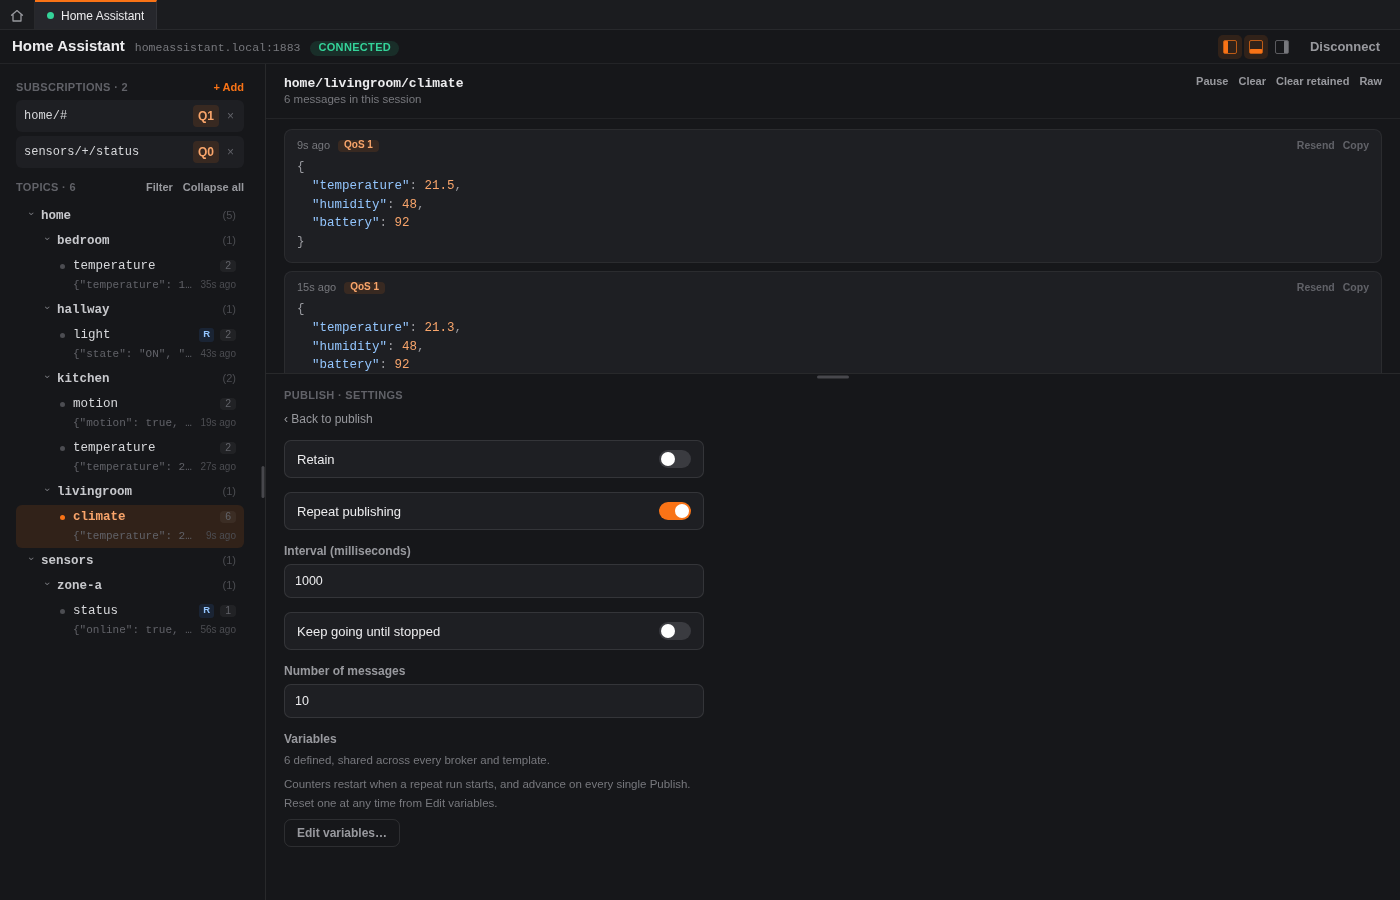
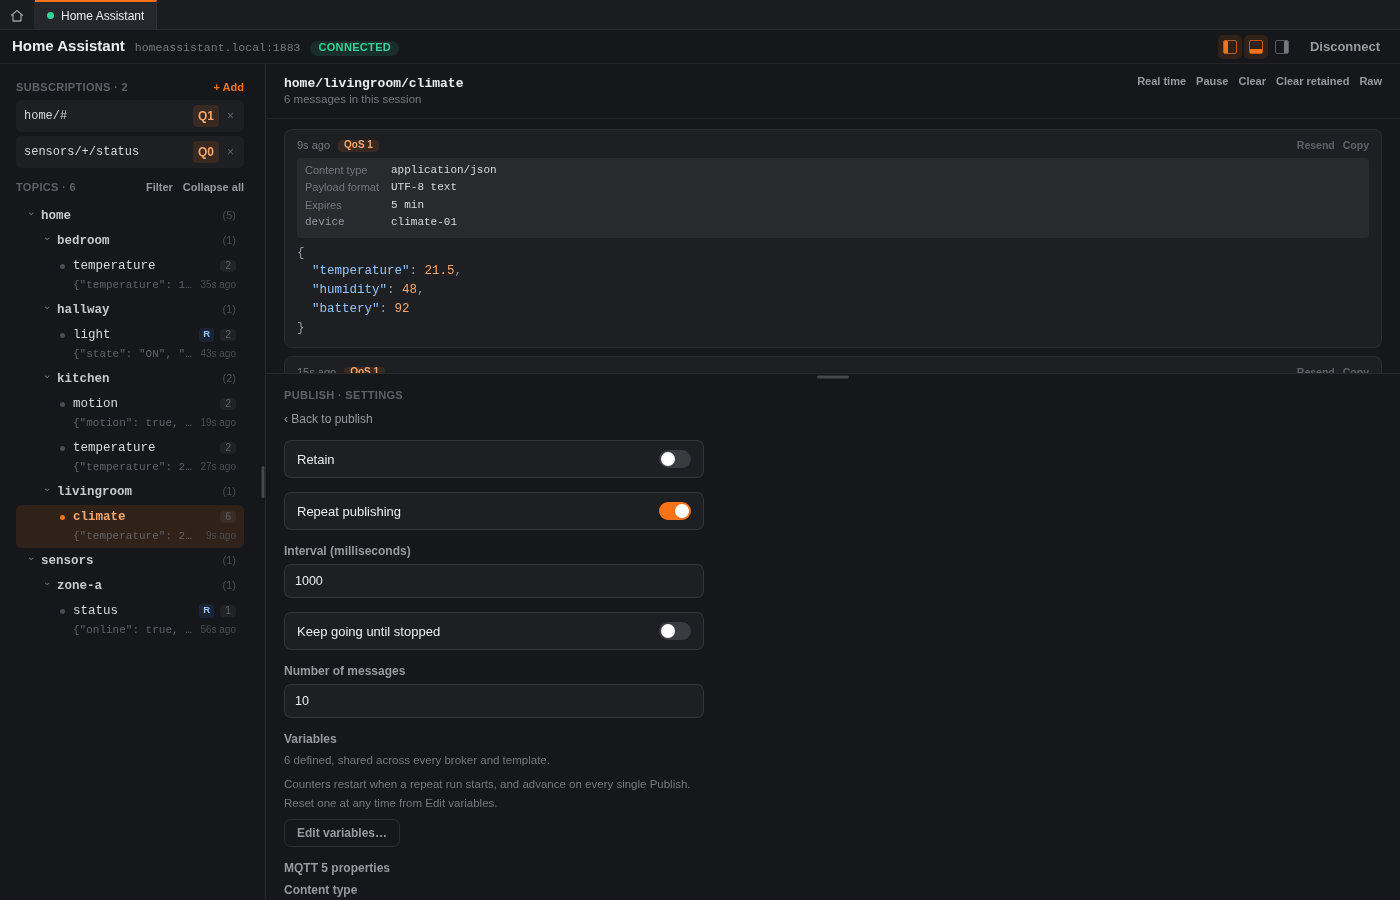
updated docs

diff --git a/src/demo/demo-data.ts b/src/demo/demo-data.ts
@@ -43,7 +43,9 @@ export const DEMO_CONNECTIONS: readonly BrokerConnection[] = [
     username: null,
     password: null,
     scheme: "mqtt",
-    protocol_version: "v311",
+    // The workspace shots open this one, so it is the connection that shows
+    // MQTT 5 off: the climate sensor below publishes with properties.
+    protocol_version: "v5",
     ws_path: null,
     ca_cert_path: null,
     client_cert_path: null,
@@ -324,6 +326,22 @@ function reading(
   return { topic, payload, qos, retain: false, gapMs };
 }
 
+/** A reading from a device that speaks MQTT 5 and says so: the properties a
+ * well-behaved sensor firmware would attach to every publish. */
+function climateReading(payload: string, gapMs: number): DemoMessage {
+  return {
+    ...reading(DEMO_SELECTED_TOPIC, payload, gapMs),
+    properties: {
+      content_type: "application/json",
+      payload_is_utf8: true,
+      message_expiry_interval: 300,
+      response_topic: null,
+      correlation_data: null,
+      user_properties: [{ key: "device", value: "climate-01" }],
+    },
+  };
+}
+
 /**
  * Played in order by `__bmeDemo.playTimeline()`. Two things depend on the
  * exact contents: the topic tree's shape (one row per distinct topic, folders
@@ -365,53 +383,29 @@ export const DEMO_TIMELINE: readonly DemoMessage[] = [
     "AtMostOnce",
   ),
 
-  reading(
-    DEMO_SELECTED_TOPIC,
-    '{"temperature": 21.9, "humidity": 46, "battery": 93}',
-    3_000,
-  ),
+  climateReading('{"temperature": 21.9, "humidity": 46, "battery": 93}', 3_000),
   reading("home/hallway/light", '{"state": "ON", "brightness": 180}', 4_100),
-  reading(
-    DEMO_SELECTED_TOPIC,
-    '{"temperature": 21.7, "humidity": 46, "battery": 93}',
-    5_000,
-  ),
+  climateReading('{"temperature": 21.7, "humidity": 46, "battery": 93}', 5_000),
   reading(
     "home/bedroom/temperature",
     '{"temperature": 19.1, "humidity": 54}',
     2_400,
   ),
-  reading(
-    DEMO_SELECTED_TOPIC,
-    '{"temperature": 21.6, "humidity": 47, "battery": 92}',
-    4_600,
-  ),
+  climateReading('{"temperature": 21.6, "humidity": 47, "battery": 92}', 4_600),
   reading(
     "home/kitchen/temperature",
     '{"temperature": 20.1, "humidity": 50}',
     3_300,
   ),
-  reading(
-    DEMO_SELECTED_TOPIC,
-    '{"temperature": 21.4, "humidity": 47, "battery": 92}',
-    5_200,
-  ),
+  climateReading('{"temperature": 21.4, "humidity": 47, "battery": 92}', 5_200),
   reading(
     "home/kitchen/motion",
     '{"motion": true, "lux": 96}',
     2_800,
     "AtMostOnce",
   ),
-  reading(
-    DEMO_SELECTED_TOPIC,
-    '{"temperature": 21.3, "humidity": 48, "battery": 92}',
-    4_800,
-  ),
-  reading(
-    DEMO_SELECTED_TOPIC,
-    '{"temperature": 21.5, "humidity": 48, "battery": 92}',
-    6_100,
-  ),
+  climateReading('{"temperature": 21.3, "humidity": 48, "battery": 92}', 4_800),
+  climateReading('{"temperature": 21.5, "humidity": 48, "battery": 92}', 6_100),
 ];
 
 /** The office broker's traffic. Shorter and visibly different from the home

diff --git a/src/app/pages/broker-workspace/publish-panel/publish-panel.html b/src/app/pages/broker-workspace/publish-panel/publish-panel.html
@@ -87,6 +87,29 @@
         }
       }
 
+      <div class="field">
+        <span class="field-label">Variables</span>
+        <div class="variables-summary">
+          <p class="settings-note">
+            {{ variables().length }} defined, shared across every broker and
+            template.
+          </p>
+          @if (counterValues().size > 0) {
+            <p class="settings-note">
+              Counters restart when a repeat run starts, and advance on every
+              single Publish. Reset one at any time from Edit variables.
+            </p>
+          }
+          <button
+            type="button"
+            class="btn-outline"
+            (click)="openVariablesModal()"
+          >
+            Edit variables…
+          </button>
+        </div>
+      </div>
+
       @if (showsProperties()) {
         <div class="field properties">
           <span class="field-label">MQTT 5 properties</span>
@@ -187,29 +210,6 @@
           </div>
         </div>
       }
-
-      <div class="field">
-        <span class="field-label">Variables</span>
-        <div class="variables-summary">
-          <p class="settings-note">
-            {{ variables().length }} defined, shared across every broker and
-            template.
-          </p>
-          @if (counterValues().size > 0) {
-            <p class="settings-note">
-              Counters restart when a repeat run starts, and advance on every
-              single Publish. Reset one at any time from Edit variables.
-            </p>
-          }
-          <button
-            type="button"
-            class="btn-outline"
-            (click)="openVariablesModal()"
-          >
-            Edit variables…
-          </button>
-        </div>
-      </div>
     </div>
   </div>
 } @else {

diff --git a/README.md b/README.md
@@ -25,6 +25,7 @@ It's built with [Tauri](https://tauri.app) (a Rust backend, SQLite for local sto
 - **Several brokers at once** — each in its own tab, with its own history, layout and publish draft.
 - **Live topic tree** — watch the hierarchy build itself as messages arrive, and click any topic for its full session history.
 - **Every transport** — `mqtt://`, `mqtts://`, `ws://` and `wss://`, with client certificates, custom CAs and ALPN.
+- **MQTT 5** — per connection, alongside 3.1.1. Set content type, response topic, correlation data, expiry and user properties on what you publish, see them on what arrives, and get the broker's own reason when it refuses or drops you.
 - **Message templates** — save any payload, group it into collections, and share it through an [open, versioned exchange format](spec/README.md) that isn't bme-specific.
 - **Simulate a device** — `{{variables}}` expand to a fresh counter, random number, UUID or timestamp on every send, and repeat publishing turns one template into a plausible data stream.
 - **Charts** — plot any numeric field in a topic's payload and watch it move.
@@ -33,7 +34,7 @@ It's built with [Tauri](https://tauri.app) (a Rust backend, SQLite for local sto
 ## Screenshots
 
 <p align="center">
-  <img src="docs/screenshots/broker-workspace.png" width="820" alt="Broker Workspace: connected to a broker, subscriptions and a live topic tree in the left dock, message history above the publish panel in the middle, and three dock-toggle buttons beside Disconnect in the header">
+  <img src="docs/screenshots/broker-workspace.png" width="820" alt="Broker Workspace: connected to a broker, subscriptions and a live topic tree in the left dock, message history above the publish panel in the middle - each message card listing its MQTT 5 properties above the JSON payload - and three dock-toggle buttons beside Disconnect in the header">
   <br>
   <em>Broker Workspace — subscriptions, a live topic tree, message history, and publish, all in one screen. Each dock hides from its own button in the header.</em>
 </p>
@@ -51,7 +52,7 @@ It's built with [Tauri](https://tauri.app) (a Rust backend, SQLite for local sto
       <br><em>Saved connections</em>
     </td>
     <td align="center" width="50%">
-      <img src="docs/screenshots/new-connection.png" width="380" alt="New Connection form with a scheme selector, host, port and WebSocket path making up the endpoint, connection settings on the left and CA and client certificate pickers, ALPN and a skip-verification toggle on the right">
+      <img src="docs/screenshots/new-connection.png" width="380" alt="New Connection form with a scheme selector, host, port and WebSocket path making up the endpoint, connection settings including an MQTT 3.1.1 / MQTT 5 protocol selector on the left, and CA and client certificate pickers, ALPN and a skip-verification toggle on the right">
       <br><em>Adding a broker</em>
     </td>
   </tr>
@@ -75,6 +76,12 @@ It's built with [Tauri](https://tauri.app) (a Rust backend, SQLite for local sto
   <em>Charts — plot any numeric value in a topic's payload and watch it move.</em>
 </p>
 
+<p align="center">
+  <img src="docs/screenshots/mqtt5-properties.png" width="820" alt="An MQTT 5 connection: the message stream shows a received message with its content type, payload format, expiry and a device user property listed above the payload, and the publish settings below have the MQTT 5 properties section filled in with a content type, expiry, response topic, correlation data, the UTF-8 switch and a user property">
+  <br>
+  <em>MQTT 5 — properties on what arrives, and an editor for what you send.</em>
+</p>
+
 <table align="center">
   <tr>
     <td align="center" width="50%">
@@ -82,7 +89,7 @@ It's built with [Tauri](https://tauri.app) (a Rust backend, SQLite for local sto
       <br><em>Variables behind <code>{{name}}</code></em>
     </td>
     <td align="center" width="50%">
-      <img src="docs/screenshots/repeat-publishing.png" width="380" alt="Publish settings view showing retain and repeat toggles, publish interval in milliseconds, number of messages, and a summary of the defined variables">
+      <img src="docs/screenshots/repeat-publishing.png" width="380" alt="Publish settings view showing retain and repeat toggles, publish interval in milliseconds, number of messages, a summary of the defined variables, and the start of the MQTT 5 properties section below">
       <br><em>Repeat publishing</em>
     </td>
   </tr>
@@ -90,10 +97,10 @@ It's built with [Tauri](https://tauri.app) (a Rust backend, SQLite for local sto
 
 ### How to use it
 
-1. **Add a broker** — `+ New Connection`, pick a scheme (`mqtt://`, `mqtts://`, `ws://`, `wss://`) and fill in host/port — plus the WebSocket path, credentials or certificates if the broker needs them — then **Save & Connect** (or **Test Connection** first to sanity-check it).
+1. **Add a broker** — `+ New Connection`, pick a scheme (`mqtt://`, `mqtts://`, `ws://`, `wss://`) and fill in host/port — plus the WebSocket path, credentials or certificates if the broker needs them — then **Save & Connect** (or **Test Connection** first to sanity-check it). The **Protocol** selector picks MQTT 3.1.1 or MQTT 5 for that connection; a broker that only speaks 3.1.1 will say so when a v5 connection is refused.
 2. **Subscribe** to a topic filter from the sidebar — subscriptions persist and are replayed automatically next time you connect.
-3. **Browse** the live topic tree as messages arrive; click any topic to see its full session history (payload, QoS, retained flag, time received).
-4. **Publish** a message from the panel below the message stream — topic is pre-filled from whatever you've selected in the tree, payload as JSON or raw text, pick a QoS, hit Publish.
+3. **Browse** the live topic tree as messages arrive; click any topic to see its full session history (payload, QoS, retained flag, time received — and on an MQTT 5 connection, whatever properties the sender attached).
+4. **Publish** a message from the panel below the message stream — topic is pre-filled from whatever you've selected in the tree, payload as JSON or raw text, pick a QoS, hit Publish. On an MQTT 5 connection the ⚙ settings also hold the message's properties (content type, expiry, response topic, correlation data, user properties); **Resend** on a received message carries its properties along.
 5. **Save frequently-used payloads as templates** — from the publish panel, "Save as Template" (broker-independent, optionally grouped into a collection) or "Load Template" to pull one back in. Manage the full set — edit any field, delete, or reorganize collections — from **Manage Templates** on the Connections page.
 6. **Share templates and collections** — from the Templates page, **Export** a single template or a whole collection (or **Export All** for everything) as copy-pasteable JSON, and **Import** to bring one back in. It's an open, versioned format, not a bme-specific blob — see [`spec/`](spec/README.md) for the full definition.
 7. **Simulate a device** — put `{{name}}` variables in the topic or payload and they expand to a fresh value on every send: a counter, a random integer or decimal in a range, a UUID, a timestamp, or a fixed string. Define them with **Edit Vars** on the publish panel, and hit **Show preview** to see exactly what the next message will carry. Turn on **Repeat** behind the ⚙ to fire the draft every N milliseconds — a fixed number of times or until you hit Stop — and one template becomes a plausible data stream instead of 500 identical messages. Counters restart when a repeat run starts and advance on every single Publish; each counter has its own **Reset** button in the variables dialog.
@@ -138,7 +145,8 @@ rather ask than be told.
 Rough order of what's next, no promises on timing:
 
 - [ ] In-app auto-update — today bme only *tells* you a release exists
-- [ ] MQTT 5.0 — user properties, response topics, and real reason codes
+- [x] MQTT 5.0 — user properties, response topics, and real reason codes
+- [ ] More of MQTT 5.0 — properties on saved templates, per-subscription options (No Local, Retain As Published, Retain Handling), persistent sessions
 
 Have an opinion on priority, or something else you'd want? Open an issue.
 

diff --git a/docs/architecture/frontend.md b/docs/architecture/frontend.md
@@ -118,8 +118,8 @@ The biggest surface in the app — one screen composed of several panels:
 
 - `subscriptions-panel/` — subscribe/unsubscribe, lists persisted subscriptions
 - `topic-tree/` — the live tree. Pure helpers next to it: `build-topic-tree.ts`, `find-updated-leaf-paths.ts`
-- `message-stream/` — the history list. Virtualized: `virtual-range.ts` + `measure-height.directive.ts`
-- `publish-panel/` — compose and publish; entry point for save/load template
+- `message-stream/` — the history list. Virtualized: `virtual-range.ts` + `measure-height.directive.ts`. `message-to-draft.ts` is what Resend hands the publish panel (properties included); `format-properties.ts` turns a message's MQTT 5 properties into the rows on its card
+- `publish-panel/` — compose and publish; entry point for save/load template. The MQTT 5 properties editor lives on its settings layer and only renders when the workspace passes `protocolVersion: "v5"`; `publish-properties.ts` is the form ↔ `MessageProperties` mapping, and the reason nothing typed there ever leaves on a 3.1.1 connection
 - `tool-panel/` — the right-hand dock, one tool at a time (a `@switch`, so Pin/Compare drop in as extra cases). `value-charts/` is the only tool today: a stack of hand-rolled SVG charts, with `numeric-fields.ts`, `sample-series.ts`, `chart-geometry.ts`, `axis-ticks.ts` and `axis-format.ts` as its pure helpers
 - `layout/dock-layout.ts` — the whole geometry of the three docks as plain functions over a plain `LayoutInput`: sizes, the two grid templates, and folding a splitter drag back in. Sizes are stored as a **fraction of the window**, so recomputing after a resize is a pure multiply rather than an increment that could drift
 - `qos-select/`, `save-template-modal/`, `load-template-modal/`
